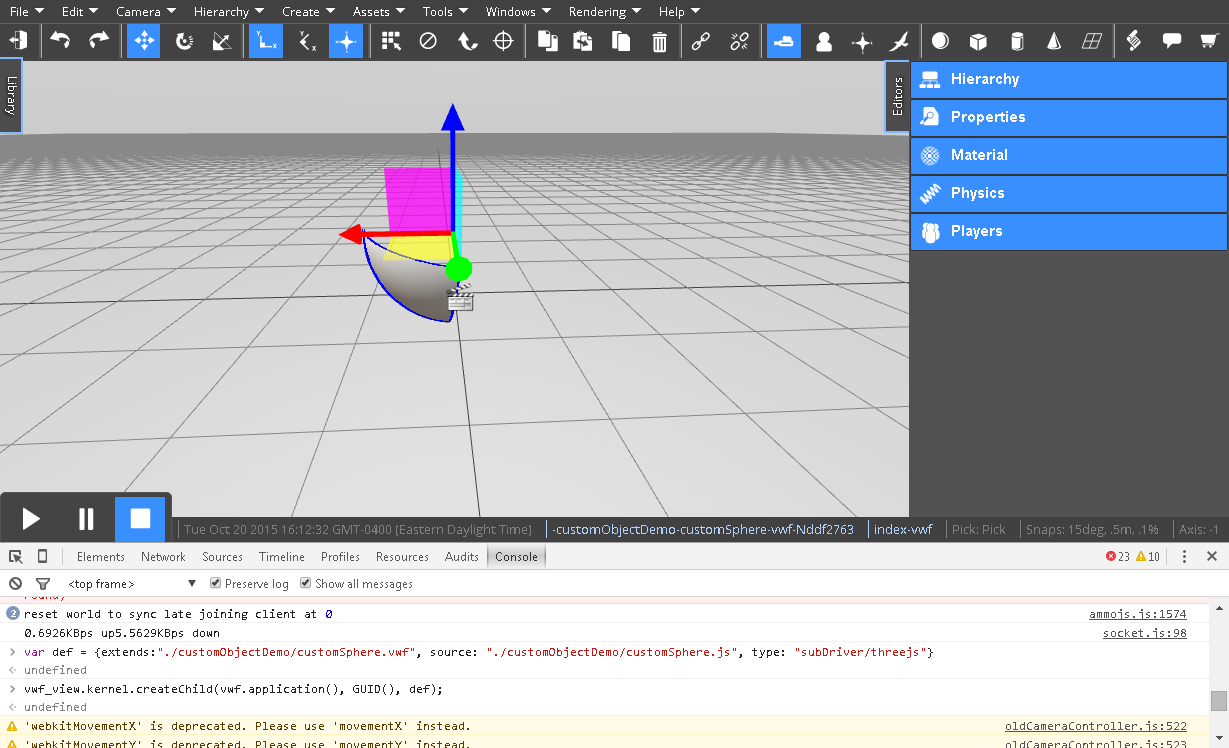
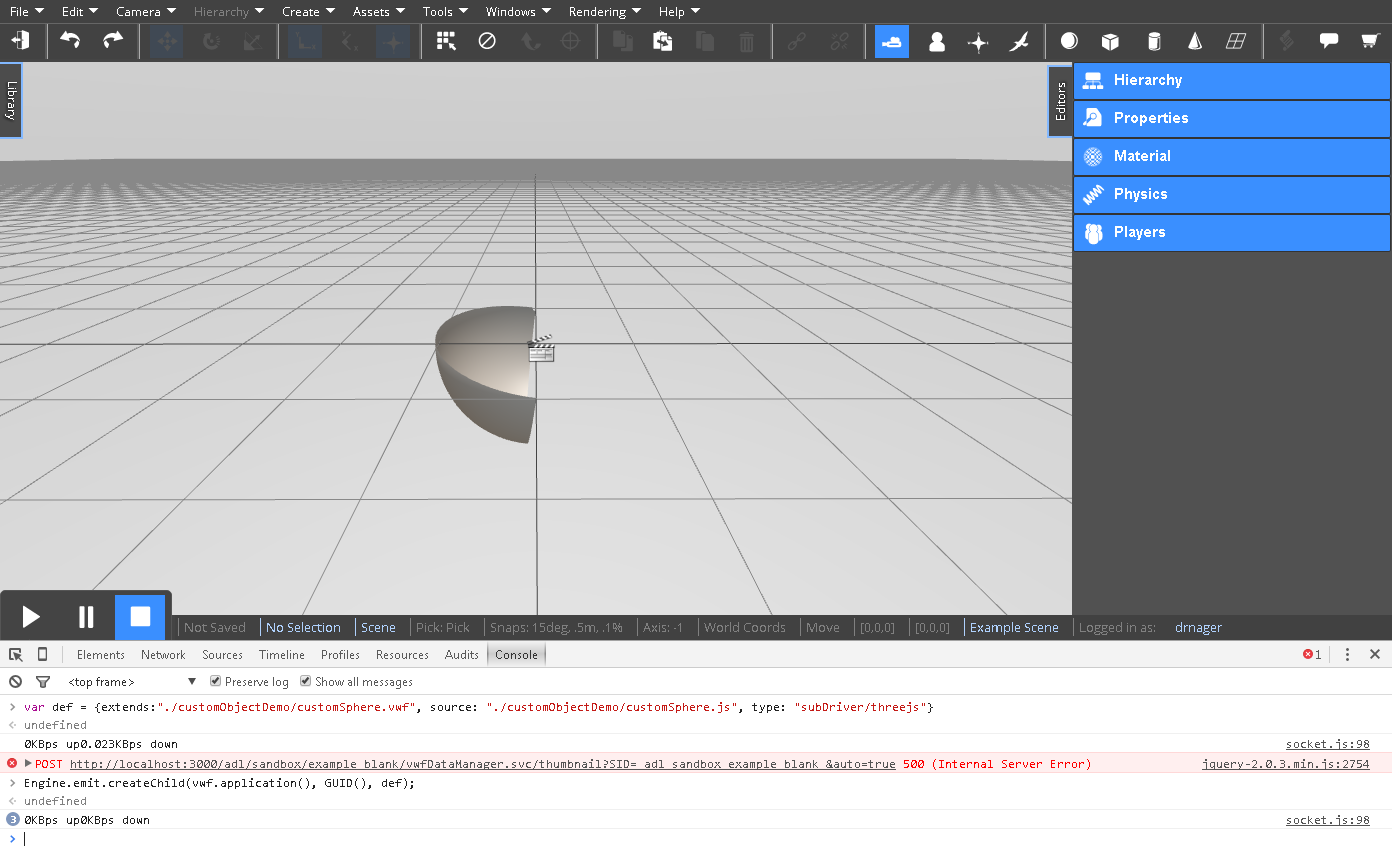
Updated graphic for Engine.emit change and ref files

diff --git a/docs/tutorials/customSphere.js b/docs/tutorials/customSphere.js
@@ -1,0 +1,62 @@
+"use strict";
+(function()    // this is the factory function that will return our new object type
+{	
+
+    //constrcutor for our new object
+    function customSphere(childID, childSource, childName, childType, assetSource, asyncCallback)
+    {
+    	this.root = new THREE.Object3D(); // the root of our custom graphics
+    	this.phi = 1.6;
+    	this.id = childID;
+    	this.getRoot = function() //boilerplate for giving our node to the system
+    	{
+    		return this.root;
+    	}
+    	
+    	//
+    	this.inherits = ['vwf/model/threejs/visible.js', 'vwf/model/threejs/transformable.js'];
+    	this.initialize = function()
+    	{
+			this.sphere = new THREE.SphereGeometry(1,10,10,3,1.6,0,3.1);
+			this.material = new THREE.MeshPhongMaterial("#FFFFFF");
+			this.material.side = 2;
+			this.mesh = new THREE.Mesh(this.sphere,this.material);	
+			this.getRoot().add(this.mesh);
+    	}
+
+    	//respond to the property change messages from the engine
+    	//vwf.setProperty(_Editor.GetSelectedVWFID(),'phi',.6);
+    	//we can force the engine to send us the command even though we have not defined this property in the API 
+    	//with the above line.
+    	this.settingProperty = function(name,val)
+    	{
+    		if(name == 'phi')
+    		{
+    			this.phi = val;
+    			this.root.remove(this.mesh)
+    			this.sphere = new THREE.SphereGeometry(1,10,10,3,val,0,3.1);
+				this.mesh = new THREE.Mesh(this.sphere,this.material);
+				this.getRoot().add(this.mesh);
+    		}
+    	}
+    	this.gettingProperty = function(name,val)
+    	{
+    		if(name == 'phi')
+    		{
+    			return this.phi;
+    		}	
+    	}
+    	//inform the engine that the value might be changing over time
+    	this.ticking = function()
+    	{
+    		this.settingProperty("phi",this.phi + .01);
+    	}
+    }
+    //default factory code
+    return function(childID, childSource, childName, childType, assetSource, asyncCallback)
+    {
+        //name of the node constructor
+        var s = new customSphere(childID, childSource, childName, childType, assetSource, asyncCallback);
+        return s;
+    }
+})();

diff --git a/docs/tutorials/custom-graphic-tutorial.md b/docs/tutorials/custom-graphic-tutorial.md
@@ -33,6 +33,9 @@ Where `extends: customSphere.vwf` is the engine's object interface (not implemen
 
 For this demo, we'll keep the two files in a directory in `Sandbox` > `public` > `adl` > `sandbox`.  We'll call the directory `customObjectDemo`.  Placing the files here will make them easy for us to reference later.
 
+!!! note:
+    Here are links to download the complete files for your reference: [customSphere.vwf.yaml](customSphere.vwf.yaml) and [customSphere.js](customSphere.js)
+
 Create a new text file called `customSphere.vwf.yaml` in the `customObjectDemo` directory.  Put the following in the file:
 
 ```
